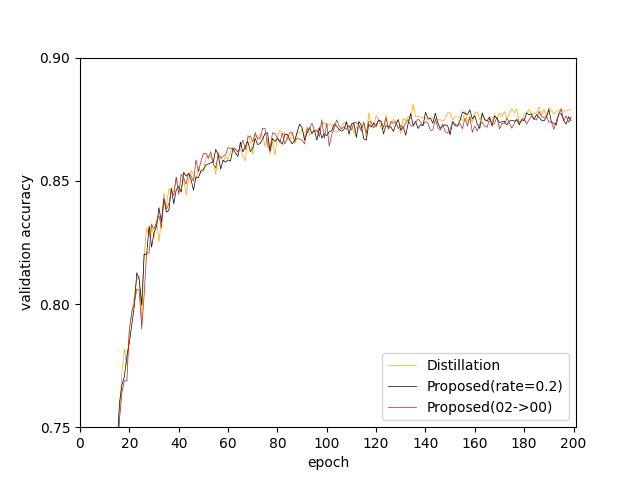
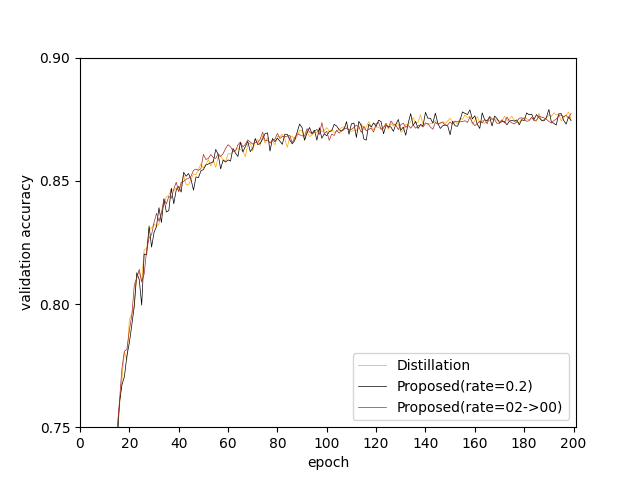
cam-distillation

diff --git a/test.py b/test.py
@@ -20,7 +20,7 @@ def main():
     teacher_st_loss = 0
     teacher_cam01_loss = 0
     teacher_cam02_loss = 0
-    teacher_cam03_loss = 0
+    teacher_cam000_loss = 0
     
     iteration = 1
     
@@ -41,14 +41,14 @@ def main():
         st = resnet_student().to(device)
         cam01 = resnet_student().to(device)
         cam02 = resnet_student().to(device)
-        cam03 = resnet_student().to(device)
+        cam000 = resnet_student().to(device)
         
         teacher.load_state_dict(torch.load('./logs/resnet/teacher/' + str(i) + '.pth'))
         student.load_state_dict(torch.load('./logs/resnet/student/' + str(i) + '.pth'))
         st.load_state_dict(torch.load('./logs/resnet/st/' + str(i) + '.pth'))
         cam01.load_state_dict(torch.load('./logs/resnet/cam/01_' + str(i) + '.pth'))
         cam02.load_state_dict(torch.load('./logs/resnet/cam/02_' + str(i) + '.pth'))
-        cam03.load_state_dict(torch.load('./logs/resnet/cam/000_' + str(i) + '.pth'))
+        cam000.load_state_dict(torch.load('./logs/resnet/cam/000_' + str(i) + '.pth'))
         
         loss_fn = nn.CrossEntropyLoss()
         cam_loss = nn.MSELoss()
@@ -58,6 +58,7 @@ def main():
         st.eval()
         cam01.eval()
         cam02.eval()
+        cam000.eval()
        
         with torch.no_grad():           
             for images, labels in tqdm(dataloader, leave=False):
@@ -67,7 +68,7 @@ def main():
                 _, st_cams = st(images)
                 _, cam01_cams = cam01(images)
                 _, cam02_cams = cam02(images)
-                _, cam03_cams = cam03(images)
+                _, cam000_cams = cam000(images)
                 
                 for j in range(batch_size):
                     image = images[j]
@@ -77,14 +78,14 @@ def main():
                     st_feature = st_cams[j].to(device)
                     cam01_feature = cam01_cams[j].to(device)
                     cam02_feature = cam02_cams[j].to(device)
-                    cam03_feature = cam03_cams[j].to(device)
+                    cam000_feature = cam000_cams[j].to(device)
                     
                     teacher_cam = create_teacher_cam(image, label, teacher_feature, teacher)
                     student_cam = create_student_cam(image, label, student_feature, student)
                     st_cam = create_student_cam(image, label, st_feature, st)
                     cam01_cam = create_student_cam(image, label, cam01_feature, cam01)
                     cam02_cam = create_student_cam(image, label, cam02_feature, cam02)
-                    cam03_cam = create_student_cam(image, label, cam03_feature, cam02)
+                    cam000_cam = create_student_cam(image, label, cam000_feature, cam02)
                     
                     # 1. 教師と生徒のLoss
                     teacher_student_loss += cam_loss(teacher_cam, student_cam)
@@ -95,19 +96,19 @@ def main():
                     # 4. 教師と提案法(cam_rate=0.2)のLoss
                     teacher_cam02_loss   += cam_loss(teacher_cam, cam02_cam)
                     # 5. 教師と提案法(cam_rate=0.3)のLoss
-                    # teacher_cam03_loss   += cam_loss(teacher_cam, cam03_cam)
+                    teacher_cam000_loss   += cam_loss(teacher_cam, cam000_cam)
             
     teacher_student_loss /= iteration
     teacher_st_loss /= iteration
     teacher_cam01_loss /= iteration
     teacher_cam02_loss /= iteration
-    teacher_cam03_loss /= iteration
+    teacher_cam000_loss /= iteration
     
     print('Teacher & Student: '            + str(teacher_student_loss.numpy()))
     print('Teacher & Distillation: '       + str(teacher_st_loss.numpy()))
     print('Teacher & Proposed(rate=0.1): ' + str(teacher_cam01_loss.numpy()))
     print('Teacher & Proposed(rate=0.2): ' + str(teacher_cam02_loss.numpy()))
-    print('Teacher & Proposed(rate=0.3): ' + str(teacher_cam03_loss.numpy()))
+    print('Teacher & Proposed(rate=0.3): ' + str(teacher_cam000_loss.numpy()))
 
 def create_teacher_cam(image, label, feature, model):
     weight = model.fc.weight[label]

diff --git a/train_cam.py b/train_cam.py
@@ -15,7 +15,8 @@ from src.kd_loss.cam_loss import CAMLoss
 import pickle
 
 def main():
-    for i in range(1):
+    for i in range(1, 3):
+        print(i)
         cam_rate = '000' # default: '02', CAM-curriculum: '00', '000'
         epochs = 200
         batch_size = 128
@@ -60,19 +61,20 @@ def main():
                 preds, student_features = student(images)
                 targets, teacher_features = teacher(images)
                 
-                student_cam = create_student_cam(student, images, labels, student_features, batch_size, device)
-                teacher_cam = create_teacher_cam(teacher, images, labels, teacher_features, batch_size, device)
+                # student_cam = create_student_cam(student, images, labels, student_features, batch_size, device)
+                # teacher_cam = create_teacher_cam(teacher, images, labels, teacher_features, batch_size, device)
                 
-                if cam_rate == '01':
-                    loss = 0.5*loss_fn(preds, labels) + 0.4*T*T*soft_loss(preds, targets) + 0.1*cam_loss(student_cam, teacher_cam)
-                elif cam_rate == '02': 
-                    loss = 0.5*loss_fn(preds, labels) + 0.3*T*T*soft_loss(preds, targets) + 0.2*cam_loss(student_cam, teacher_cam)
-                elif cam_rate == '03':
-                    loss = 0.5*loss_fn(preds, labels) + 0.2*T*T*soft_loss(preds, targets) + 0.3*cam_loss(student_cam, teacher_cam)
-                elif cam_rate == '04':
-                    loss = 0.5*loss_fn(preds, labels) + 0.1*T*T*soft_loss(preds, targets) + 0.4*cam_loss(student_cam, teacher_cam)
-                elif cam_rate == '05':
-                    loss = 0.5*loss_fn(preds, labels) + 0.5*cam_loss(student_cam, teacher_cam)
+                # if cam_rate == '01':
+                #     loss = 0.5*loss_fn(preds, labels) + 0.4*T*T*soft_loss(preds, targets) + 0.1*cam_loss(student_cam, teacher_cam)
+                # elif cam_rate == '02': 
+                #     loss = 0.5*loss_fn(preds, labels) + 0.3*T*T*soft_loss(preds, targets) + 0.2*cam_loss(student_cam, teacher_cam)
+                # elif cam_rate == '03':
+                #     loss = 0.5*loss_fn(preds, labels) + 0.2*T*T*soft_loss(preds, targets) + 0.3*cam_loss(student_cam, teacher_cam)
+                # elif cam_rate == '04':
+                #     loss = 0.5*loss_fn(preds, labels) + 0.1*T*T*soft_loss(preds, targets) + 0.4*cam_loss(student_cam, teacher_cam)
+                # elif cam_rate == '05':
+                #     loss = 0.5*loss_fn(preds, labels) + 0.5*cam_loss(student_cam, teacher_cam)
+                
                 # CAM Curriculum learning     
                 # elif cam_rate == '00':
                 #     if epoch <= 50:
@@ -81,11 +83,13 @@ def main():
                 #         loss = 0.5*loss_fn(preds, labels) + 0.4*T*T*soft_loss(preds, targets) + 0.1*cam_loss(student_cam, teacher_cam)
                 #     elif 100 < epoch:
                 #         loss = 0.5*loss_fn(preds, labels) + 0.5*T*T*soft_loss(preds, targets)
-                elif cam_rate == '000':
+                if cam_rate == '000':
                     if epoch <= 100:
+                        student_cam = create_student_cam(student, images, labels, student_features, batch_size, device)
+                        teacher_cam = create_teacher_cam(teacher, images, labels, teacher_features, batch_size, device)
                         loss = 0.5*loss_fn(preds, labels) + 0.3*T*T*soft_loss(preds, targets) + 0.2*cam_loss(student_cam, teacher_cam)
                     elif 100 < epoch:
-                        loss = loss = 0.5*loss_fn(preds, labels) + 0.5*T*T*soft_loss(preds, targets)
+                        loss = 0.5*loss_fn(preds, labels) + 0.5*T*T*soft_loss(preds, targets)
                 
                 
                 optim.zero_grad()

diff --git a/result.py b/result.py
@@ -10,28 +10,32 @@ def main():
     cam01_path = './history/resnet/cam/01_'
     cam02_path = './history/resnet/cam/02_'
     cam000_path = './history/resnet/cam/000_'
+    cam00_path = './history/resnet/cam/00_'
     
     # loading history
     student_acc = load_hist(student_path, 1)
     teacher_acc = load_hist(teacher_path, 5)
-    st_acc = load_hist(st_path, 1)
+    st_acc = load_hist(st_path, 3)
     cam01_acc = load_hist(cam01_path, 1)
     cam02_acc = load_hist(cam02_path, 1)
-    cam000_acc = load_hist(cam000_path, 1)
+    cam000_acc = load_hist(cam000_path, 3)
+    cam00_acc = load_hist(cam00_path, 1)
     
     # print test accuracy
     student_avg = load_avg_test(student_path, 1)
     student_best = load_best_test(student_path, 1)   
     teacher_avg = load_avg_test(teacher_path, 5)
     teacher_best = load_best_test(teacher_path, 5)    
-    st_avg = load_avg_test(st_path, 1)
-    st_best = load_best_test(st_path, 1)    
+    st_avg = load_avg_test(st_path, 3)
+    st_best = load_best_test(st_path, 3)    
     cam01_avg = load_avg_test(cam01_path, 1)
     cam01_best = load_best_test(cam01_path, 1) 
     cam02_avg = load_avg_test(cam02_path, 1)
     cam02_best = load_best_test(cam02_path, 1)
-    cam000_avg = load_avg_test(cam000_path, 1)
-    cam000_best = load_best_test(cam000_path, 1)
+    cam000_avg = load_avg_test(cam000_path, 3)
+    cam000_best = load_best_test(cam000_path, 3)
+    cam00_avg = load_avg_test(cam00_path, 1)
+    cam00_best = load_best_test(cam00_path, 1)
       
     print('| Student                  | avg: ' + str(student_avg)  + ' | best: ' + str(student_best) + ' |')
     print('| Teacher                  | avg: ' + str(teacher_avg)  + ' | best: ' + str(teacher_best) + ' |')
@@ -39,6 +43,7 @@ def main():
     print('| Proposed(rate=0.1)       | avg: ' + str(cam01_avg)    + ' | best: ' + str(cam01_best)   + ' |')
     print('| Proposed(rate=0.2)       | avg: ' + str(cam02_avg)    + ' | best: ' + str(cam02_best)   + ' |')
     print('| Proposed(rate=0.2->0.0)  | avg: ' + str(cam000_avg)   + ' | best: ' + str(cam000_best)  + ' |')
+    print('| Proposed(rate=0.2->0.1->0.0)  | avg: ' + str(cam00_avg)   + ' | best: ' + str(cam00_best)  + ' |')
     
     # plot result
     x = np.arange(200)

diff --git a/train_kd.py b/train_kd.py
@@ -14,7 +14,7 @@ from src.kd_loss.st import SoftTargetLoss
 import pickle
 
 def main():
-    for i in range(1):
+    for i in range(1, 5):
         print(i)
         epochs = 200
         batch_size = 128
